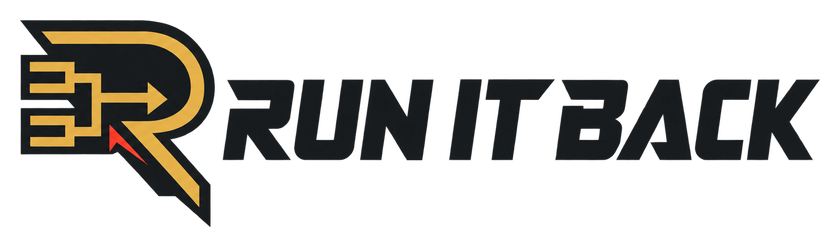
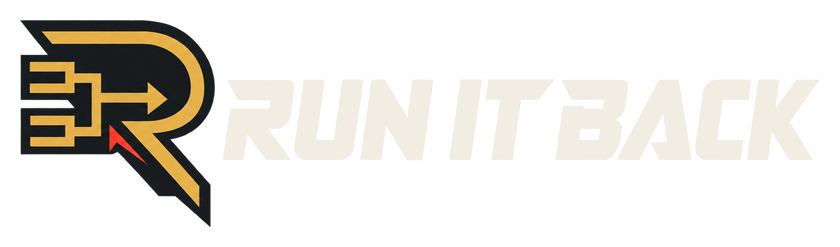
fix: blend wordmark into dark header

Changed region(s): [[0.2476, 0.3117, 0.9905, 0.6518]]

diff --git a/src/app/globals.test.ts b/src/app/globals.test.ts
@@ -188,17 +188,17 @@ describe("parsed broadcast stylesheet", () => {
     expect(ruleFor(rules, ".roster-bar strong").style.getPropertyValue("color")).toBe("var(--rib-text-primary)");
   });
 
-  it("gives the dark wordmark a responsive warm contrast plate", () => {
+  it("keeps the light wordmark transparent and responsively sized", () => {
     const brand = exactRuleFor(rules, ".app-banner__brand").style;
-    expect(brand.getPropertyValue("background")).toBe("var(--rib-text-primary)");
+    expect(brand.getPropertyValue("background")).toBe("transparent");
     expect(brand.getPropertyValue("padding")).toBe("var(--rib-space-1) var(--rib-space-2)");
-    expect(exactRuleFor(rules, ".app-banner__home").style.getPropertyValue("background")).toBe("var(--rib-text-primary)");
+    expect(exactRuleFor(rules, ".app-banner__home").style.getPropertyValue("background")).toBe("transparent");
     const wordmark = exactRuleFor(rules, ".app-banner__wordmark").style;
     expect(wordmark.getPropertyValue("width")).toBe("168px");
     expect(wordmark.getPropertyValue("height")).toBe("40px");
     expect(wordmark.getPropertyValue("object-fit")).toBe("contain");
     const hover = exactRuleFor(rules, ".app-banner__home:hover:not(:disabled)").style;
-    expect(hover.getPropertyValue("background")).toBe("var(--rib-text-primary)");
+    expect(hover.getPropertyValue("background")).toBe("transparent");
     const mobile = mediaFor(rules, "(max-width:44rem)");
     expect(ruleFor(mobile.cssRules, ".app-banner__wordmark").style.getPropertyValue("width")).toBe("128px");
   });

diff --git a/src/app/globals.css b/src/app/globals.css
@@ -169,13 +169,13 @@ main:focus-visible {
   display: block;
   border-radius: var(--rib-radius-sm);
   padding: var(--rib-space-1) var(--rib-space-2);
-  background: var(--rib-text-primary);
+  background: transparent;
 }
 
 .app-banner__home {
   min-block-size: 0;
   border: 0;
-  background: var(--rib-text-primary);
+  background: transparent;
   color: inherit;
   font: inherit;
   letter-spacing: inherit;
@@ -184,7 +184,7 @@ main:focus-visible {
 
 .app-banner__wordmark { display: block; width: 168px; height: 40px; object-fit: contain; }
 
-.app-banner__home:hover:not(:disabled) { background: var(--rib-text-primary); }
+.app-banner__home:hover:not(:disabled) { background: transparent; }
 
 .app-banner--entry p { text-transform: uppercase; letter-spacing: 0.08em; }
 
